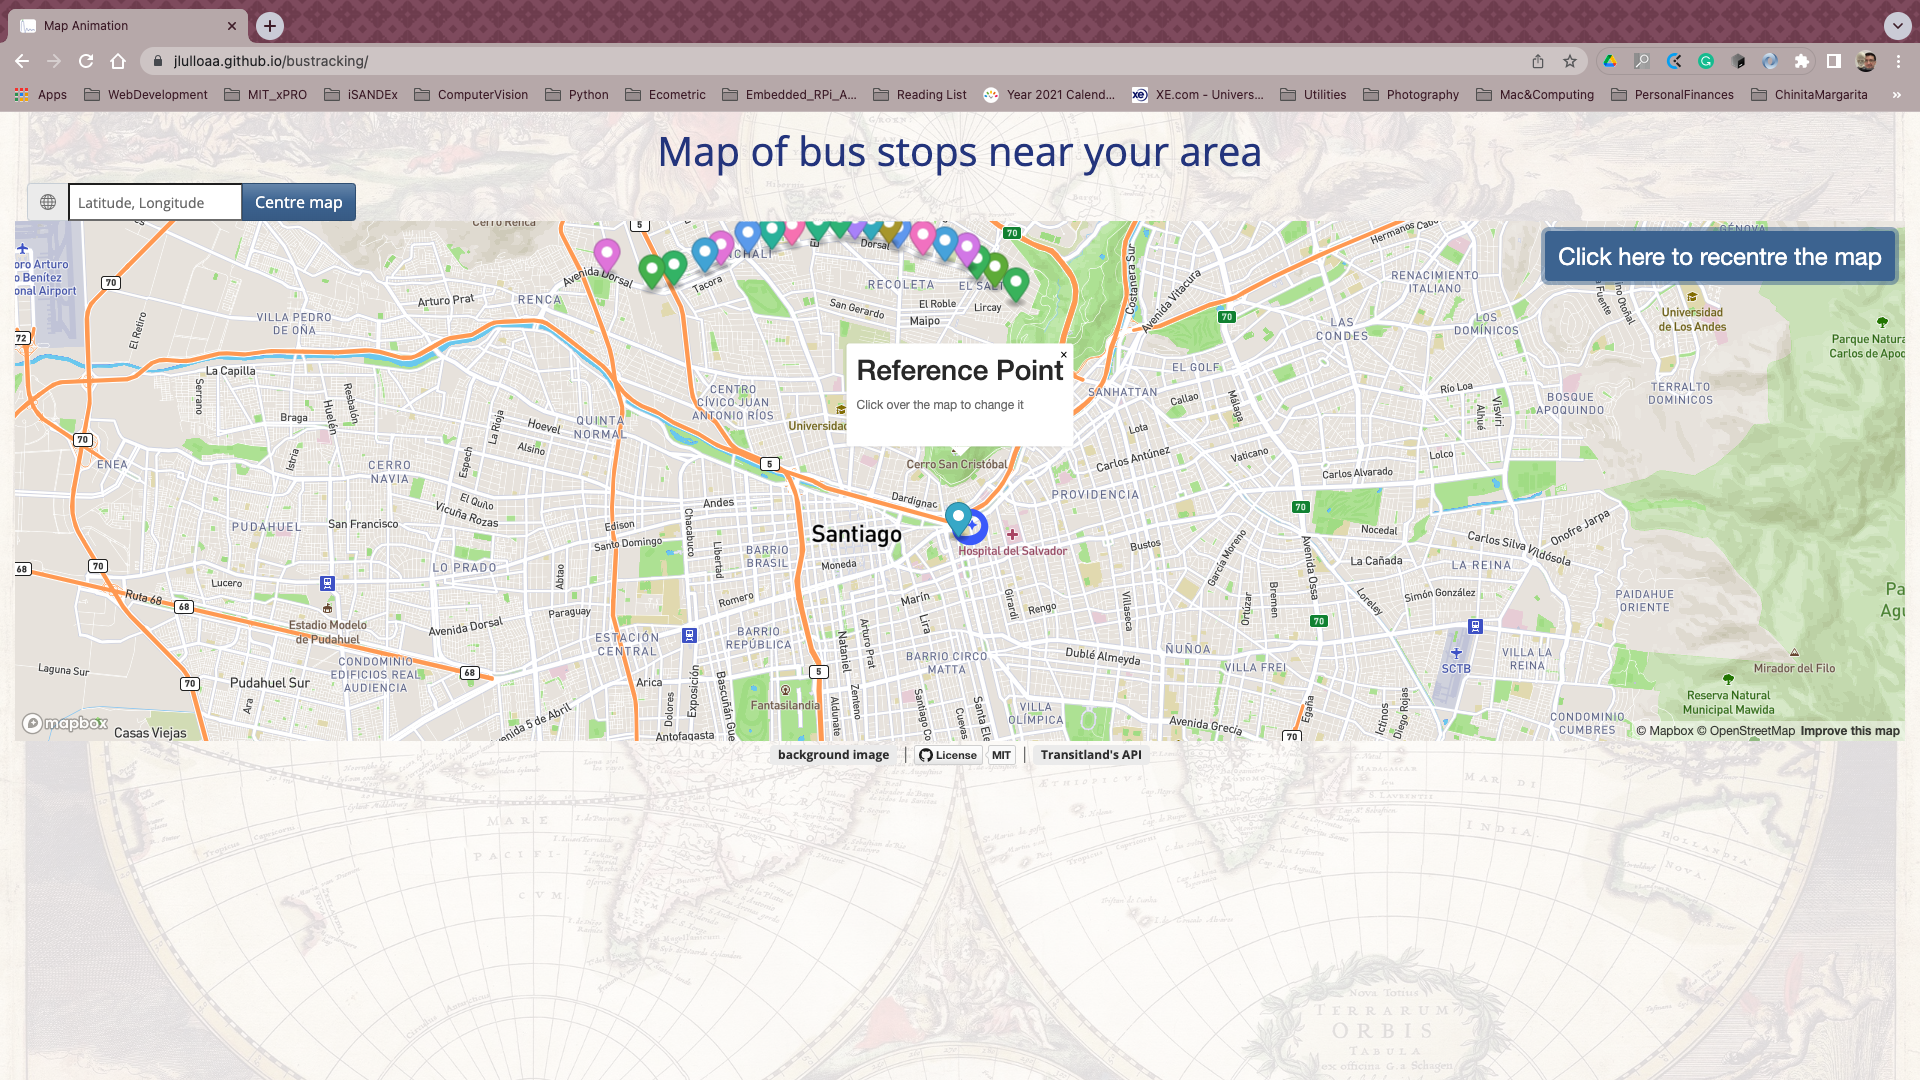
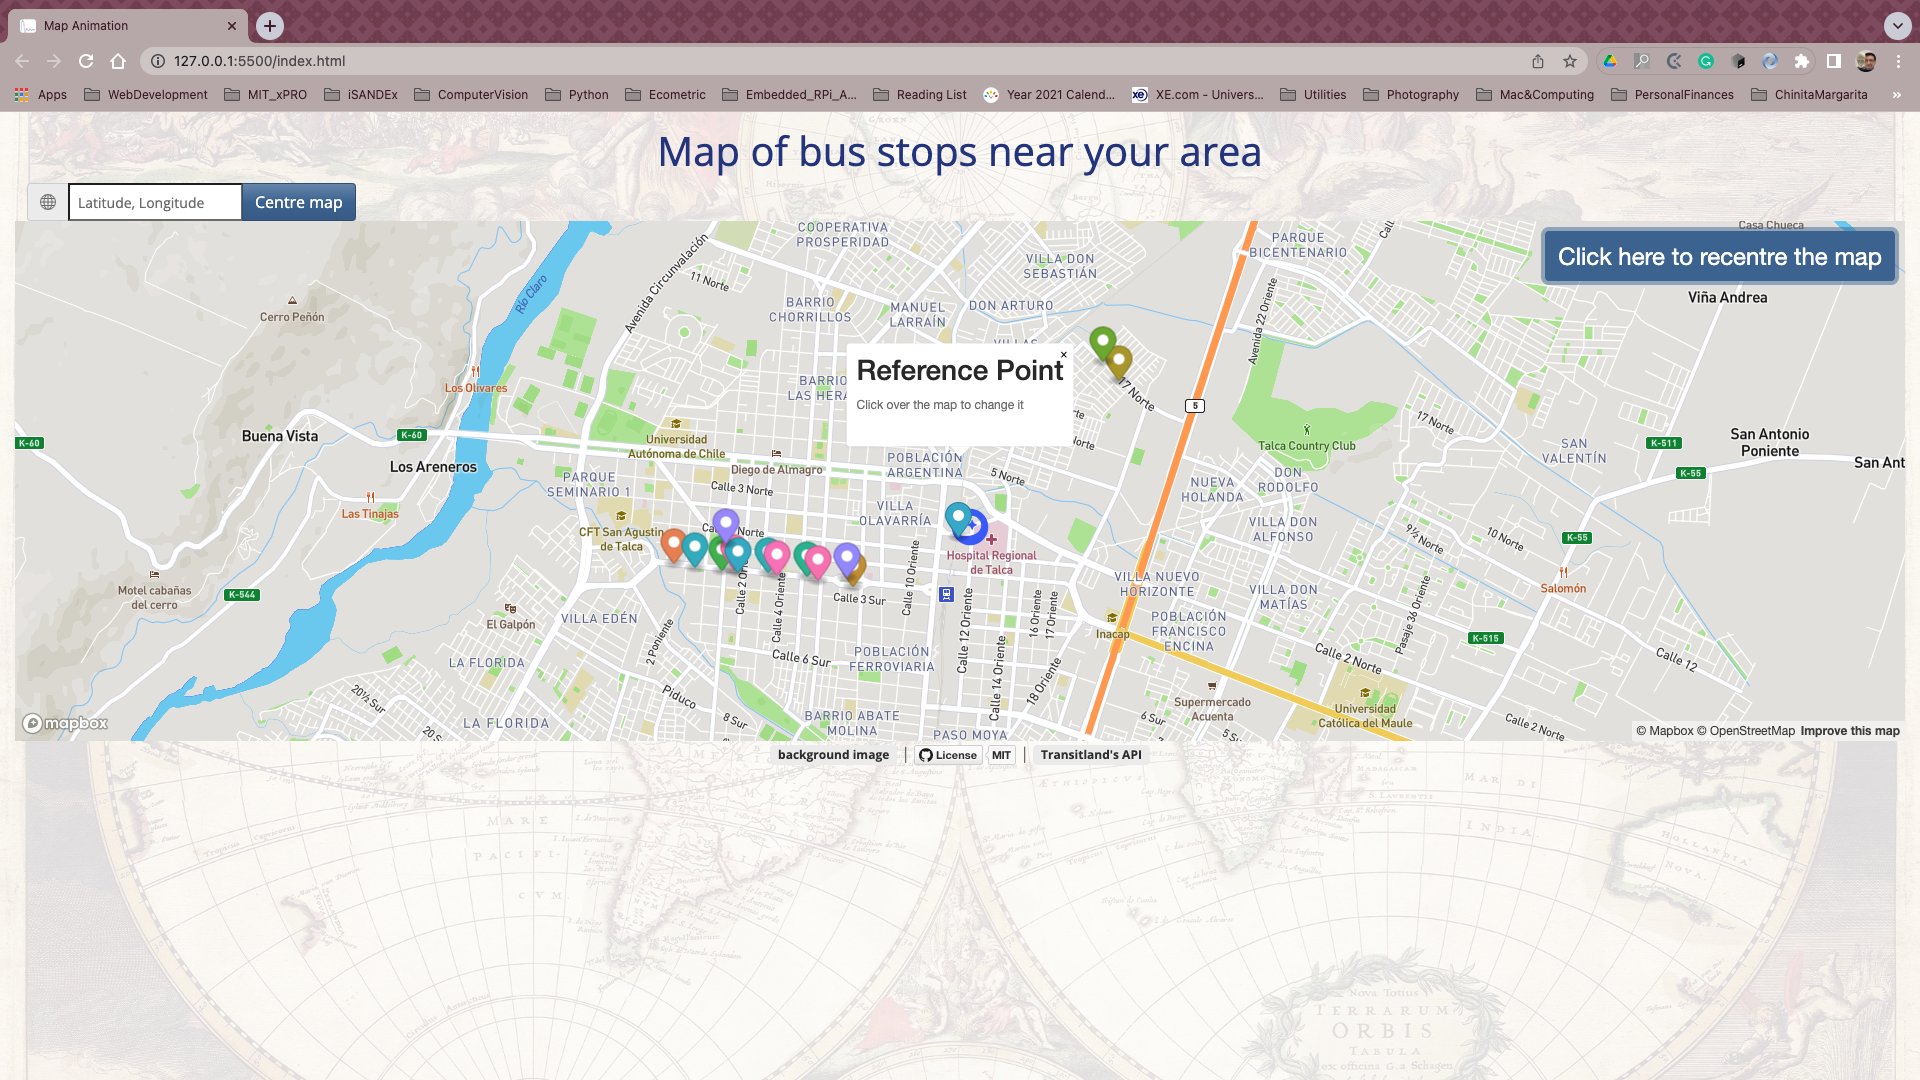
README file ready :)

Changed region(s): [[0.0, 0.1833, 1.0, 0.7028], [0.0938, 0.0306, 0.1875, 0.0611], [0.875, 0.1833, 0.9375, 0.2139]]

diff --git a/mapanimation.js b/mapanimation.js
@@ -106,12 +106,15 @@ function shape_request(baseUrl, searchCoord, token) {
 
 // §§§§§§§§§§§§§§§§§§§§§§§§§§§§§§§§§§§§§§§§§§§§§§§§§§§§§§§§§§§§§§§§§§§§§§§§§§§§§§§§§§§§§§§§§§§§§§§§§§§§§§§§§§§§
 // Initial constants and variables
-// Santiago [Latitude, Longiitude]:
-var mapC0 = [-33.43021450773247, -70.63269145612679].reverse(); 
-descripC0 = {title: 'Reference Point', description: 'Click over the map to change it'}
-// Concepcion [Latitude, Longiitude]:
+// Santiago [Latitude, Longitude]:
+// var mapC0 = [-33.43021450773247, -70.63269145612679].reverse(); 
+// descripC0 = {title: 'Reference Point', description: 'Click over the map to change it'}
+// Concepcion [Latitude, Longitude]:
 // var mapC0 = [-36.816392332966494, -73.05296554039516].reverse();
 // descripC0 = {title: 'Centre Point', description: 'Concepcion, Chile'}
+// Talca [Latitude, Longitude]:
+var mapC0 = [-35.4231656184843, -71.64862301094895].reverse();
+descripC0 = {title: 'Reference Point', description: 'Click over the map to change it'}
 
 // Search radius (in meters)
 const radius = 10000;

diff --git a/index.html b/index.html
@@ -21,11 +21,12 @@
 
 <body>
     <div class="container-fluid main"> <!-- Main block-->
-        <div class="row"><!-- Header -->
-                <div id="header">
-                    <h1>Map of bus stops near your area</h1>
-                </div>
+        <div class="row" id="header" ><!-- Header -->
+            <a class="nav-link" href="https://github.com/jlulloaa/bustracking" target="_blank" data-bs-toggle="tooltip" data-bs-placement="right" title="Click to access the repository">
+                <h1>Map of bus stops near your area</h1>
+            </a>
         </div>
+        
         <div class="row" >
             <div class="col-lg-3 input-group">
                 <span class="input-group-text">

diff --git a/README.md b/README.md
@@ -26,47 +26,48 @@
 
 <img alt="Screenshot" src="howto/screenshot.png">
 
-# Description
-It's time for another exploratory exercise! Remember how you were able to manipulate the movements of PacMan across the browser window? In this exercise, you are going to create bustracking with the click of a button and each of them will move about the browser window at their own pace. Enjoy this challenge!
+# :compass: Description 
+Bus Stop Tracker is an application to identify bus stops near to a reference point. This is an exploratory excercise I am doing as part of the [full-stack web developer certificate](https://executive-ed.xpro.mit.edu/professional-certificate-coding) I'm pursuing. The idea of this exercise is to build up on the concept of asynchronous programming and how to feed a webpage on external data to provide real-time experience to users. It also reinforces key learning concepts about front-end development, such as interacting with the [DOM](https://developer.mozilla.org/en-US/docs/Web/API/Document_Object_Model) and exploring the world of user interfaces with [CSS styles](https://www.w3schools.com/html/html_css.asp) and [bootstrap](https://getbootstrap.com/) templates.
 
-In this exercise, you will create a web page that produces a PacMan on the click of a button by using the array methods you've learned previously and the new techniques you’ve learned for manipulating the DOM.
+By using the free tier services of [mapbox](https://www.mapbox.com/) and the javascript libraries [MapBoxGLJS](https://docs.mapbox.com/mapbox-gl-js/api/), a vector map of an area centred around a point is displayed on the page. The software then accesses real-time traffic data through free APIs provided by [transitland](https://www.transit.land/). In this first version, the bus stops near to the reference point (within a radius of 10km) are displayed by coloured markers. The information is refreshed every 60secs, by fetching new data through the API. 
 
-Here you can see what the bustracking exercise will look like after it's been implemented. You will complete this exercise in Canvas and then you can also create it on your local machine and share it on your personal GitHub repository by using the starter files from the Introduction and Instructions page.
+# :world_map: How to Run
+The first time the page loads, it centres around [Talca](https://www.britannica.com/place/Talca) [(Chile)](https://en.wikipedia.org/wiki/Talca):chile:. I do not live there, I live 250km farther south, but it was the closest city where I could find data available to show :laugh:
 
-The starter code includes comments to guide you through this activity.
+The map :world_map: can be zoomed in/out and panned by using the mouse, touchscreen or keyboard (:arrow_up_down:-:left_right_down: to move around, :heavy_plus_sign: to zoom in and :heavy_minus_sign: to zoom ou). 
 
-hint: remember that window.innerWidth provide the width of the web page, you can use this value to detect if a pacman is at the edge of the screen
+To re-centre around the reference point, just hoover the mouse over the top-right corner and press the button **"Click here to recentre the map"**. Alternatively, a set of coordinates (latitude, longitude) can be typed directly into the text box (or copy and paste from e.g. [Google Maps](http://maps.google.com))
 
-Making multiple bustracking
-In a previous assignment, you were able to create a pacman and make it move across the screen. In this activity, we're going to take that a step further.
+<img alt="Centre button" src="howto/centremap.png"> 
 
-Your task in this activity is to create a pacman on demand (button click) and move these bustracking across the page
+The reference point can easily be changed by clicking in another point in the map and by pressing **"Centre map"**, the information of the bus stops around the new reference point will be displayed. If there is no data available for the point, it is indicated in the tooltip.
 
-By the end you should have something that behaves like this:
-
-# File Manifest
-
-# How to Run
-<a href="https://jlulloaa.github.io/bustracking"> Click to see the demo </a>
-
-This is information someone would use to get started running your project on their machine. 
-Here's how the game is played:
-
-When you click the "Add PacMan" button, a new pacman should appear at a random position on the screen.
-When you click the "Start Game" button, the pacman or bustracking created should start moving at random velocity on the screen.
-When a given pacman hits the edge of the screen, it should change position to stay within the frame of the web page.
+<h2 align=center><img alt="Bustracking Right" src="https://cliply.co/wp-content/uploads/2019/08/371908200_SCHOOL_BUS_400px.gif" height=32px bacground=white> <a href="https://jlulloaa.github.io/bustracking"> Explore the bus stop demo </a>
+<img alt="Bustracking Left" src="https://acegif.com/wp-content/gifs/globe-44.gif" height=32px></h2>
 
 # Roadmap of future improvements
-This should be a few sentences describing what you plan to work on next in this repository. 
+This is a fun excercise that allows practising with fetching external data and understanding the complexities of real-time UX. Although currently there are many services providing much more information, I'll be happy to see any improvement or changes perfomed by others to make this a more interesting tool.
+
+Some of the improvements I have in my ToDo list are:
+
+* Differentiate the right from the left click to enable more functionalities. Currently, cannot open two or more tooltips simultaneously, only one is displayed, because that click also translate the centre. Being able to differentiate the right from left click, will allow to e.g. use the right click to display the tooltip and the left, to recentre the pointer 
+
+* Display a counter with the number of bus stops found in the area. Also, will be nice to show the current radius and refresh time, and even been able to modify them
+
+* For planning a route, it'll be usefull to provide the closest stop by [measuring the distance](https://en.wikipedia.org/wiki/Great-circle_distance) between the reference point and the bus stops. This information can also be displayed for every stop in the tooltip.
+
+* Integrate other APIs to provide information from areas currently not served by [Transitland](https://www.transit.land/), and integrate information of underground trains
 
 # Contributing
-Pull requests are welcome. For major changes, please open an issue first to discuss what you would like to change.
+Pull requests are welcome, although I'm not sure will be reviewing them periodically. I'll also be happy to chat about any improvement or extension that could be donde to this app.
 
-Please make sure to update tests as appropriate.
 
 # Credits
-This software uses the following:
-(e.g. open source packages, links to other people's code snipet, images, etc.)
+This software uses the following third party tools:
+* The background image was taken from [WallpaperAccess](https://wallpaperaccess.com/4k-old-map)
+* [Bootstrap](https://getbootstrap.com/) based theme [Spacelab](https://bootswatch.com/spacelab/), from [bootswatch](https://bootswatch.com)
+* [Animated gif of the bus](https://cliply.co/wp-content/uploads/2019/08/371908200_SCHOOL_BUS_400px.gif) in this README file
+* [Animated gif of the spinning earth](https://acegif.com/wp-content/gifs/globe-44.gif) in this README file
 
 # License information
 This project is licensed under the terms of <a href="https://github.com/jlulloaa/bustracking/blob/main/LICENSE" target="_blank"> MIT license </a>
